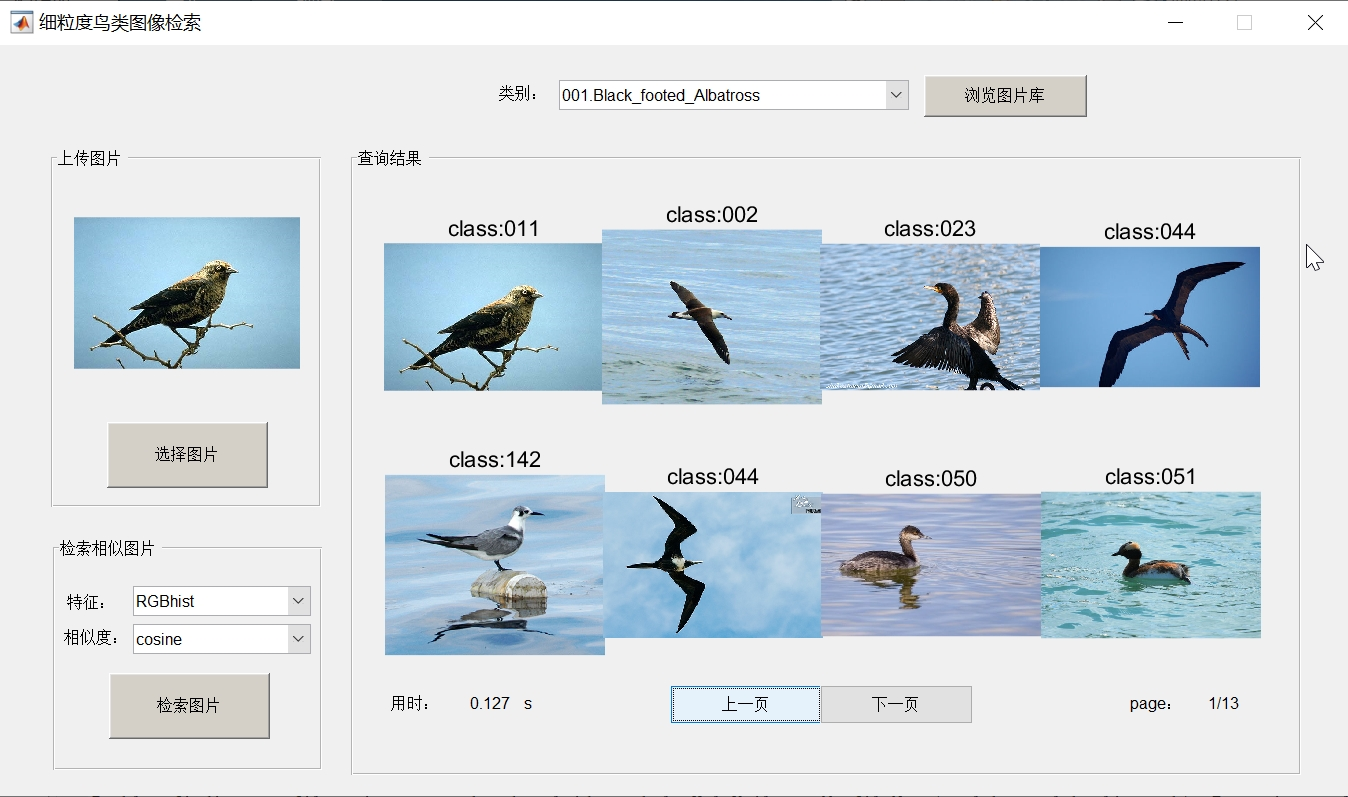
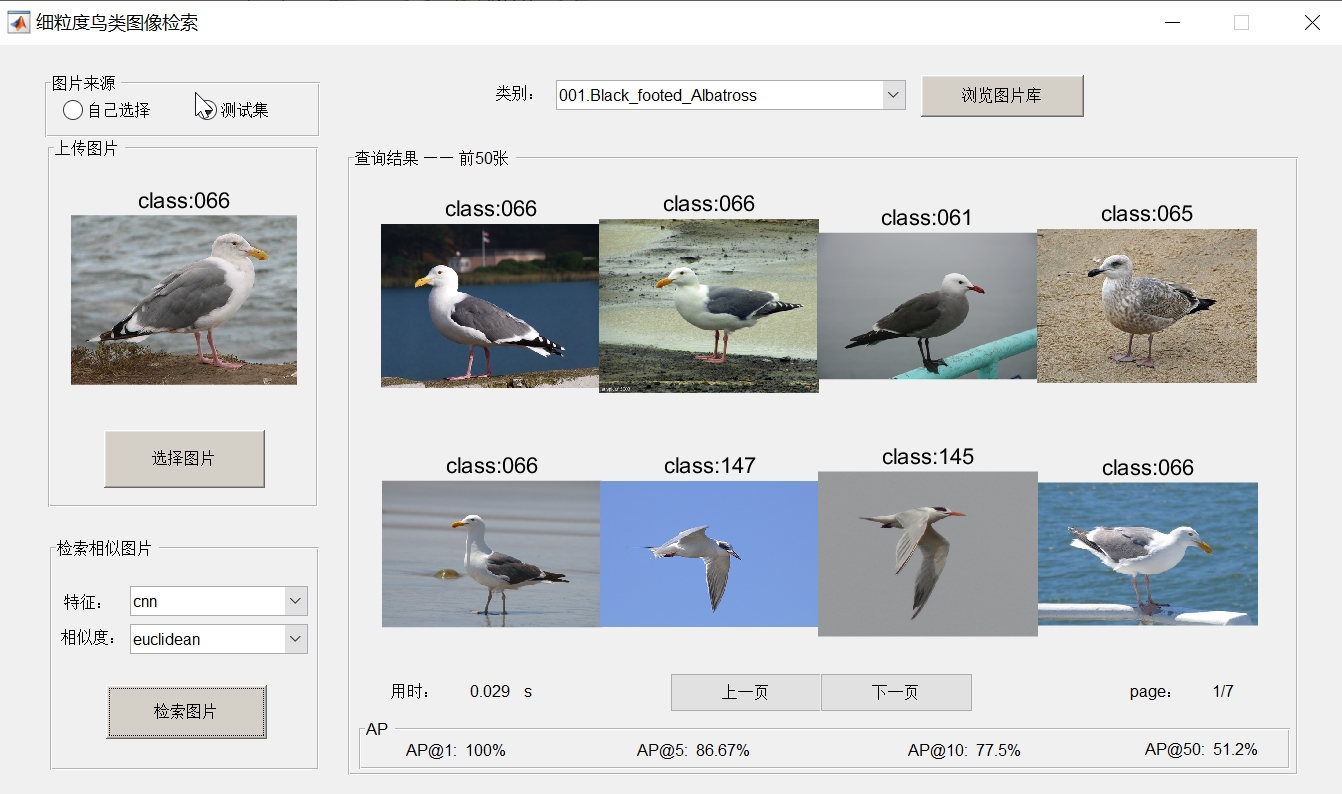
update readme

diff --git a/README.md b/README.md
@@ -22,6 +22,9 @@ http://www.vision.caltech.edu/visipedia-data/CUB-200-2011/CUB_200_2011.tgz
  1. 将数据集 CUB_200_2011.tgz 解压到 data/ 目录下
  2. 进入 code/ 目录
  3. 用 python 运行 py_server 目录下的 py_server.py, 保持该程序在后台运行
+ ```
+ (py36) ~\code> python py_server\py_server.py
+ ```
  4. 用 matlab 运行 prepare_feature.m，对整个数据集提取特征，结果会保存在 features/ 目录下
  5. 运行 interface.m，这个脚本会打开 interface.fig 作为图形界面
 
@@ -31,7 +34,8 @@ http://www.vision.caltech.edu/visipedia-data/CUB-200-2011/CUB_200_2011.tgz
 
 ![show](README_img/ui1.jpg)
 
-* 左侧两个按钮分别实现打开图片、检索并展示图片的功能
+* 左上方两个单项选择按钮指示图片来源，当选中“测试集”时，单击“选择图片”按钮将自动从测试集中选择一张图片
+* 左侧两个长方形按钮分别实现打开图片、检索并展示图片的功能
 * 用户可以通过下拉菜单选择图片的特征类型和相似度的计算方式
 * 在 matlab 命令行输入 guide 可以编辑图形界面
 
@@ -76,4 +80,4 @@ g_bird_data.features.functions = {...
 
 基于深度学习
 
-- [x] 
+- [x] cnn feature
